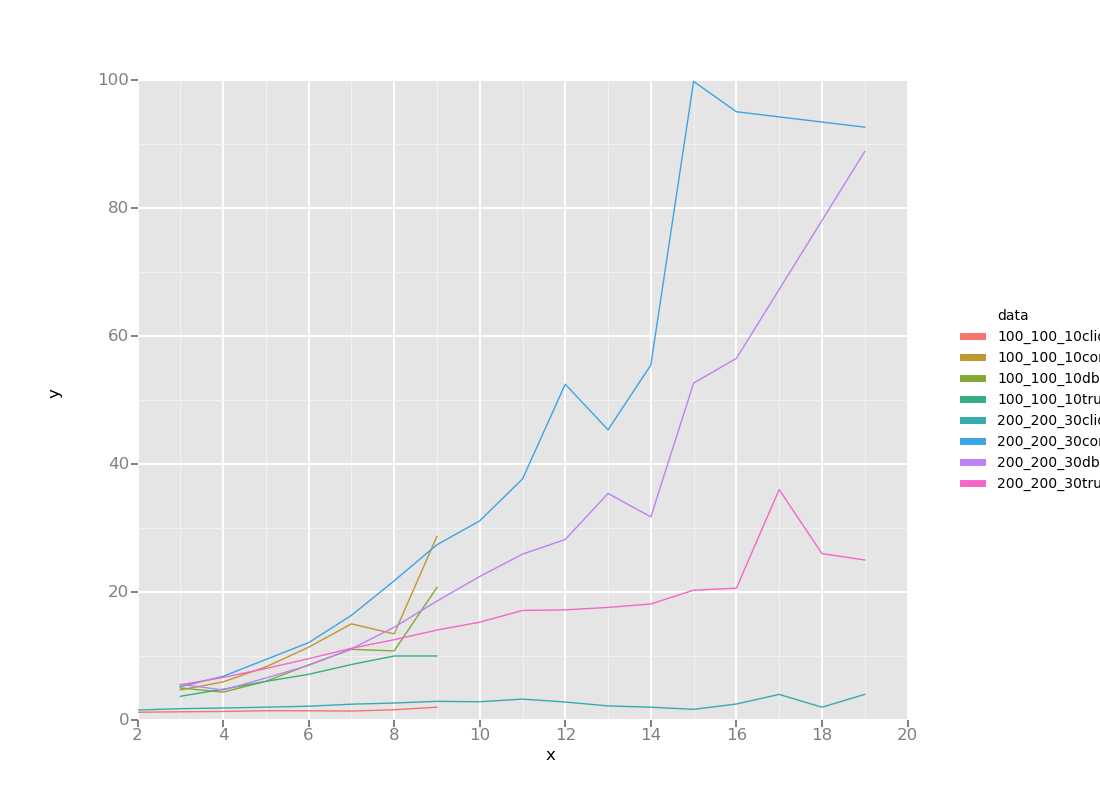
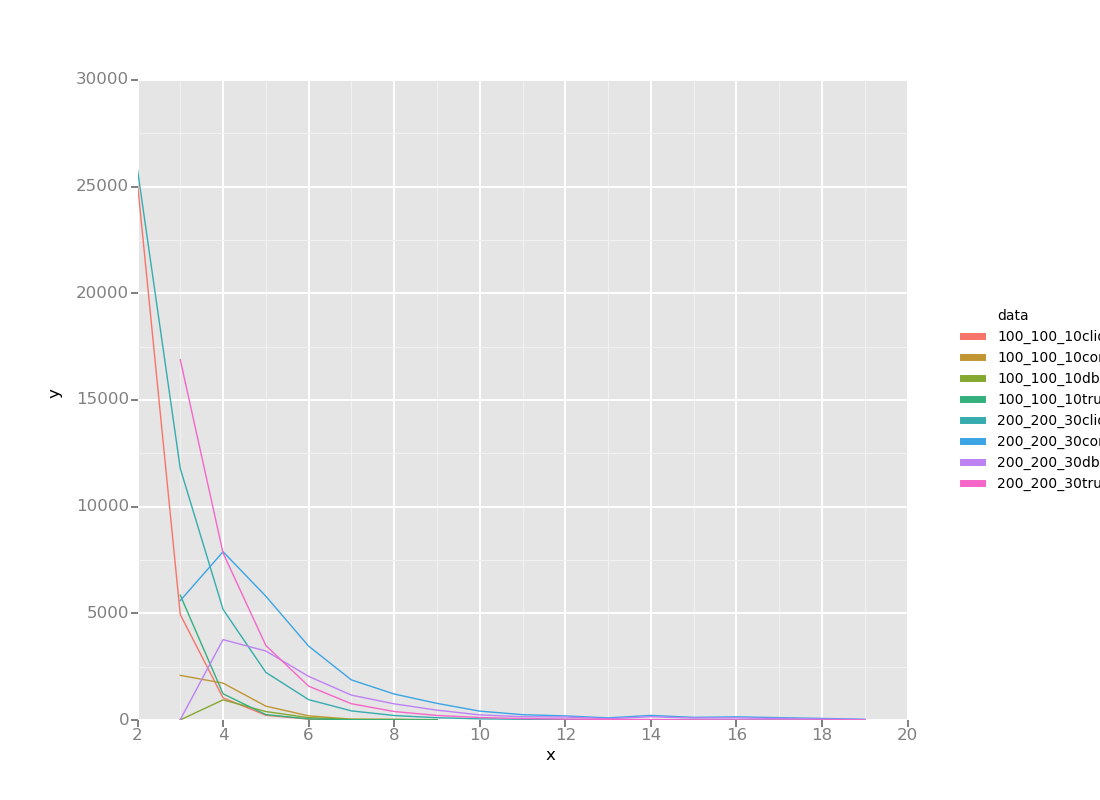
data better

diff --git a/scripts/data_analysis.py b/scripts/data_analysis.py
@@ -177,7 +177,7 @@ class JsonStatsCollections:
             if is_freq == False:
                 d = self.transformDataGgPlotSize(c, d)
             elif is_freq == True:
-                d = self.transformDataGgPlotSize(c, d)
+                d = self.transformDataGgPlot(c, d)
         f = DataFrame(d)
         p = ggplot(aes(x='x', y='y', colour='data'), data = f) + geom_line();
         p.save(ofname)
